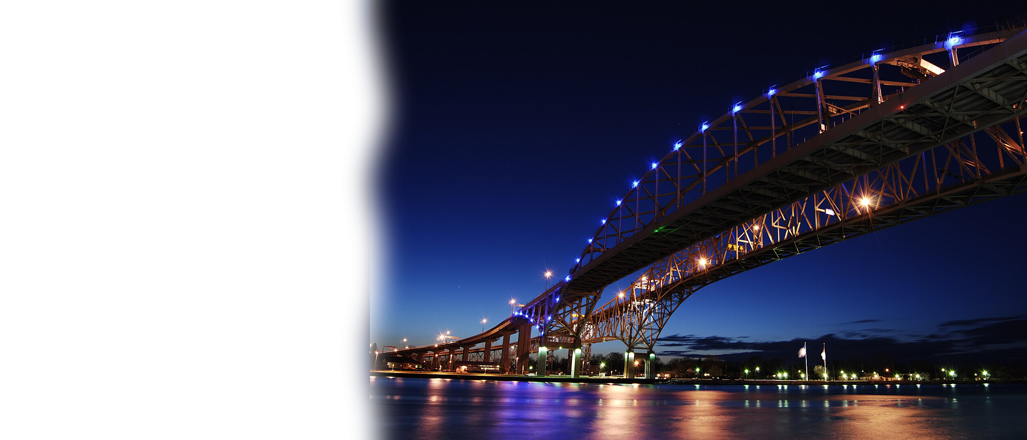
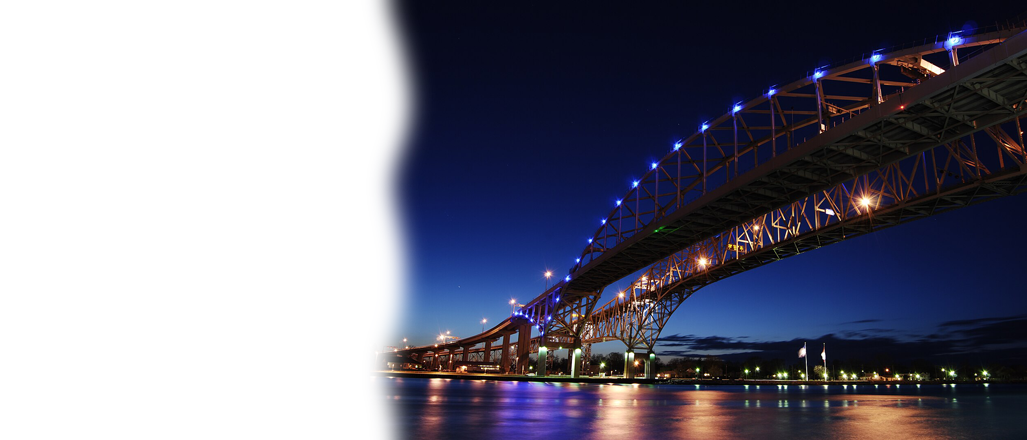
Compiling new cover image

Changed region(s): [[0.3427, 0.0, 0.4362, 1.0]]

diff --git a/dist/index.html b/dist/index.html
@@ -10,4 +10,4 @@
       .bd-placeholder-img-lg {
         font-size: 3.5rem;
       }
-    }</style><script defer="defer" src="main.js"></script></head><body><div class="container"><header class="blog-header py-1"><div class="row flex-nowrap justify-content-between align-items-center"><div class="col-4 pt-1"><a class="link-secondary" href="./"><img src="https://beljjvalentin.github.io/lambton_mun/img/MUN_logo_v5.png" width="100" class="img-responsive"></a></div><div class="col-4 text-center"><a class="blog-header-logo text-dark" href="./">Lambton MUN</a></div><div class="col-4 d-flex justify-content-end align-items-center"><a class="link-secondary" href="#" aria-label="Search"><svg xmlns="http://www.w3.org/2000/svg" width="20" height="20" fill="none" stroke="currentColor" stroke-linecap="round" stroke-linejoin="round" stroke-width="2" class="mx-3" role="img" viewBox="0 0 24 24"><title>Search</title><circle cx="10.5" cy="10.5" r="7.5"/><path d="M21 21l-5.2-5.2"/></svg> </a><a class="btn btn-sm btn-outline-secondary" href="#">Sign up</a></div></div></header><div class="nav-scroller py-1 mb-2"><nav class="nav d-flex justify-content-between"><a class="p-2 link-secondary" href="./goals.html">Our goals and values</a> <a class="p-2 link-secondary" href="./members.html">Our members</a> <a class="p-2 link-secondary" href="./events.html">Upcoming events</a> <a class="p-2 link-secondary" href="./policy.html">Policy and conditions</a> <a class="p-2 link-secondary" href="./contact.html">Contact us</a></nav></div></div><main class="container"><div class="p-4 p-md-5 mb-4 text-white rounded bg-dark d-flex flex-row flex-wrap justify-content-evenly"><div class="col-md-7 px-0 pb-3"><h1 class="display-4 fst-italic">Welcome to Lambton Model of United Nations club</h1><p class="lead my-3">Whether you're passionate about world affairs or looking to improve your leadership abilities, Lambton MUN is the perfect place to start your journey in global diplomacy.</p><p class="lead mb-0"><a href="./policy.html" class="text-white fw-bold">Continue reading...</a></p></div><div class="col-md-5 px-0 text-center"><img src="https://beljjvalentin.github.io/lambton_mun/img/Business_img_v1.png" alt="Our MUN team" width="80%"></div></div><div class="row mb-2"><div class="col-md-6"><div class="row g-0 border rounded overflow-hidden flex-md-row mb-4 shadow-sm h-md-250 position-relative"><div class="col p-4 d-flex flex-column position-static"><strong class="d-inline-block mb-2 text-primary">About Us</strong><h3 class="mb-0">Our goals and values</h3><p class="card-text mb-auto">This is a wider card with supporting text below as a natural lead-in to additional content.</p><a href="./policy.html" class="stretched-link">Continue reading</a></div><div class="col-auto d-none d-lg-block"><img class="bd-placeholder-img" height="250" src="https://beljjvalentin.github.io/lambton_mun/img/Goals_img_v1.png" alt="Our goals and values"></div></div></div><div class="col-md-6"><div class="row g-0 border rounded overflow-hidden flex-md-row mb-4 shadow-sm h-md-250 position-relative"><div class="col p-4 d-flex flex-column position-static"><strong class="d-inline-block mb-2 text-success">About us</strong><h3 class="mb-0">Meet our team</h3><p class="mb-auto">This is a wider card with supporting text below as a natural lead-in to additional content.</p><a href="./members.html" class="stretched-link">Continue reading</a></div><div class="col-auto d-none d-lg-block"><img class="bd-placeholder-img" height="250" src="https://beljjvalentin.github.io/lambton_mun/img/Team_img_v1.png" alt="Our team members"></div></div></div></div><div class="row g-5"><div class="col-md-8"><h3 class="pb-4 mb-4 fst-italic border-bottom">Latest events</h3><article class="blog-post"><h2 class="blog-post-title">Our first MUN meeting</h2><p class="blog-post-meta">June 25, 2024 by <a href="#">Valentin</a></p><p>We are thrilled to announce the first official meeting of the <b>Lambton Model United Nations</b> (MUN) Club! This is a fantastic opportunity for all students interested in international relations, diplomacy, and global issues to come together and engage in stimulating discussions and activities.</p></article><article class="blog-post"><h2 class="blog-post-title">Launching MUN official website</h2><p class="blog-post-meta">July 19, 2024 by <a href="#">Valentin</a></p><p>This blog post is the official website for the <b>Lambton Model United Nations</b> (MUN) Club! Our new website is designed to be a comprehensive resource for current and prospective members, offering a wealth of information about our activities, events, and how you can get involved.</p></article><nav class="blog-pagination" aria-label="Pagination"><a class="btn btn-outline-primary" href="#">Older</a> <a class="btn btn-outline-secondary disabled" href="#" tabindex="-1" aria-disabled="true">Newer</a></nav></div><div class="col-md-4"><div class="position-sticky" style="top: 2rem;"><div class="p-4 mb-3 bg-secondary-subtle rounded"><h4 class="fst-italic">What is MUN?</h4><p class="mb-0">Model United Nations, also known as Model UN or MUN, is an educational model of the United Nations used for simulations in which students learn about diplomacy and international relations.</p></div><div class="p-4"><h4 class="fst-italic">Archives</h4><ol class="list-unstyled mb-0"><li><a href="#">June 2024</a></li><li><a href="#">July 2024</a></li></ol></div><div class="p-4"><h4 class="fst-italic">Elsewhere</h4><ol class="list-unstyled"><li><a href="#">GitHub</a></li><li><a href="#">Twitter</a></li><li><a href="#">Facebook</a></li></ol></div></div></div></div></main><footer class="blog-footer"><p>Webpage built for <a href="https://beljjvalentin.github.io/lambton_mun/">Lambton MUN</a> by <a href="https://github.com/beljjvalentin">@beljjvalentin</a>.</p><p><a href="#">Back to top</a></p></footer></body></html>
+    }</style><script defer="defer" src="main.js"></script></head><body><div class="container"><header class="blog-header py-1"><div class="row flex-nowrap justify-content-between align-items-center"><div class="col-4 pt-1"><a class="link-secondary" href="./"><img src="https://beljjvalentin.github.io/lambton_mun/img/MUN_logo_v5.png" width="100" class="img-responsive"></a></div><div class="col-4 text-center"><a class="blog-header-logo text-dark" href="./">Lambton MUN</a></div><div class="col-4 d-flex justify-content-end align-items-center"><a class="link-secondary" href="#" aria-label="Search"><svg xmlns="http://www.w3.org/2000/svg" width="20" height="20" fill="none" stroke="currentColor" stroke-linecap="round" stroke-linejoin="round" stroke-width="2" class="mx-3" role="img" viewBox="0 0 24 24"><title>Search</title><circle cx="10.5" cy="10.5" r="7.5"/><path d="M21 21l-5.2-5.2"/></svg> </a><a class="btn btn-sm btn-outline-secondary" href="#">Sign up</a></div></div></header><div class="nav-scroller py-1 mb-2"><nav class="nav d-flex justify-content-between"><a class="p-2 link-secondary" href="./goals.html">Our goals and values</a> <a class="p-2 link-secondary" href="./members.html">Our members</a> <a class="p-2 link-secondary" href="./events.html">Upcoming events</a> <a class="p-2 link-secondary" href="./policy.html">Policy and conditions</a> <a class="p-2 link-secondary" href="./contact.html">Contact us</a></nav></div></div><main class="container"><div class="p-4 p-md-5 mb-4 text-white rounded bg-dark d-flex flex-row flex-wrap justify-content-evenly" style="background-repeat: no-repeat; background-position: right; background-image: url('https://beljjvalentin.github.io/lambton_mun/img/1613px-Bluewater_Bridge.png')"><div class="col-md-7 px-0 pb-3"><h1 class="display-4 fst-italic">Welcome to Lambton Model of United Nations club</h1><p class="lead my-3">Whether you're passionate about world affairs or looking to improve your leadership abilities, Lambton MUN is the perfect place to start your journey in global diplomacy.</p><p class="lead mb-0"><a href="./policy.html" class="text-white fw-bold">Continue reading...</a></p></div><div class="col-md-5 px-0 text-center"></div></div><div class="row mb-2"><div class="col-md-6"><div class="row g-0 border rounded overflow-hidden flex-md-row mb-4 shadow-sm h-md-250 position-relative"><div class="col p-4 d-flex flex-column position-static"><strong class="d-inline-block mb-2 text-primary">About Us</strong><h3 class="mb-0">Our goals and values</h3><p class="card-text mb-auto">This is a wider card with supporting text below as a natural lead-in to additional content.</p><a href="./policy.html" class="stretched-link">Continue reading</a></div><div class="col-auto d-none d-lg-block"><img class="bd-placeholder-img" height="250" src="https://beljjvalentin.github.io/lambton_mun/img/Goals_img_v1.png" alt="Our goals and values"></div></div></div><div class="col-md-6"><div class="row g-0 border rounded overflow-hidden flex-md-row mb-4 shadow-sm h-md-250 position-relative"><div class="col p-4 d-flex flex-column position-static"><strong class="d-inline-block mb-2 text-success">About us</strong><h3 class="mb-0">Meet our team</h3><p class="mb-auto">This is a wider card with supporting text below as a natural lead-in to additional content.</p><a href="./members.html" class="stretched-link">Continue reading</a></div><div class="col-auto d-none d-lg-block"><img class="bd-placeholder-img" height="250" src="https://beljjvalentin.github.io/lambton_mun/img/Team_img_v1.png" alt="Our team members"></div></div></div></div><div class="row g-5"><div class="col-md-8"><h3 class="pb-4 mb-4 fst-italic border-bottom">Latest events</h3><article class="blog-post"><h2 class="blog-post-title">Our first MUN meeting</h2><p class="blog-post-meta">June 25, 2024 by <a href="#">Valentin</a></p><p>We are thrilled to announce the first official meeting of the <b>Lambton Model United Nations</b> (MUN) Club! This is a fantastic opportunity for all students interested in international relations, diplomacy, and global issues to come together and engage in stimulating discussions and activities.</p></article><article class="blog-post"><h2 class="blog-post-title">Launching MUN official website</h2><p class="blog-post-meta">July 19, 2024 by <a href="#">Valentin</a></p><p>This blog post is the official website for the <b>Lambton Model United Nations</b> (MUN) Club! Our new website is designed to be a comprehensive resource for current and prospective members, offering a wealth of information about our activities, events, and how you can get involved.</p></article><nav class="blog-pagination" aria-label="Pagination"><a class="btn btn-outline-primary" href="#">Older</a> <a class="btn btn-outline-secondary disabled" href="#" tabindex="-1" aria-disabled="true">Newer</a></nav></div><div class="col-md-4"><div class="position-sticky" style="top: 2rem;"><div class="p-4 mb-3 bg-secondary-subtle rounded"><h4 class="fst-italic">What is MUN?</h4><p class="mb-0">Model United Nations, also known as Model UN or MUN, is an educational model of the United Nations used for simulations in which students learn about diplomacy and international relations.</p></div><div class="p-4"><h4 class="fst-italic">Archives</h4><ol class="list-unstyled mb-0"><li><a href="#">June 2024</a></li><li><a href="#">July 2024</a></li></ol></div><div class="p-4"><h4 class="fst-italic">Elsewhere</h4><ol class="list-unstyled"><li><a href="#">GitHub</a></li><li><a href="#">Twitter</a></li><li><a href="#">Facebook</a></li></ol></div></div></div></div></main><footer class="blog-footer"><p>Webpage built for <a href="https://beljjvalentin.github.io/lambton_mun/">Lambton MUN</a> by <a href="https://github.com/beljjvalentin">@beljjvalentin</a>.</p><p><a href="#">Back to top</a></p></footer></body></html>

diff --git a/index.html b/index.html
@@ -10,4 +10,4 @@
       .bd-placeholder-img-lg {
         font-size: 3.5rem;
       }
-    }</style><script defer="defer" src="main.js"></script></head><body><div class="container"><header class="blog-header py-1"><div class="row flex-nowrap justify-content-between align-items-center"><div class="col-4 pt-1"><a class="link-secondary" href="./"><img src="https://beljjvalentin.github.io/lambton_mun/img/MUN_logo_v5.png" width="100" class="img-responsive"></a></div><div class="col-4 text-center"><a class="blog-header-logo text-dark" href="./">Lambton MUN</a></div><div class="col-4 d-flex justify-content-end align-items-center"><a class="link-secondary" href="#" aria-label="Search"><svg xmlns="http://www.w3.org/2000/svg" width="20" height="20" fill="none" stroke="currentColor" stroke-linecap="round" stroke-linejoin="round" stroke-width="2" class="mx-3" role="img" viewBox="0 0 24 24"><title>Search</title><circle cx="10.5" cy="10.5" r="7.5"/><path d="M21 21l-5.2-5.2"/></svg> </a><a class="btn btn-sm btn-outline-secondary" href="#">Sign up</a></div></div></header><div class="nav-scroller py-1 mb-2"><nav class="nav d-flex justify-content-between"><a class="p-2 link-secondary" href="./goals.html">Our goals and values</a> <a class="p-2 link-secondary" href="./members.html">Our members</a> <a class="p-2 link-secondary" href="./events.html">Upcoming events</a> <a class="p-2 link-secondary" href="./policy.html">Policy and conditions</a> <a class="p-2 link-secondary" href="./contact.html">Contact us</a></nav></div></div><main class="container"><div class="p-4 p-md-5 mb-4 text-white rounded bg-dark d-flex flex-row flex-wrap justify-content-evenly"><div class="col-md-7 px-0 pb-3"><h1 class="display-4 fst-italic">Welcome to Lambton Model of United Nations club</h1><p class="lead my-3">Whether you're passionate about world affairs or looking to improve your leadership abilities, Lambton MUN is the perfect place to start your journey in global diplomacy.</p><p class="lead mb-0"><a href="./policy.html" class="text-white fw-bold">Continue reading...</a></p></div><div class="col-md-5 px-0 text-center"><img src="https://beljjvalentin.github.io/lambton_mun/img/Business_img_v1.png" alt="Our MUN team" width="80%"></div></div><div class="row mb-2"><div class="col-md-6"><div class="row g-0 border rounded overflow-hidden flex-md-row mb-4 shadow-sm h-md-250 position-relative"><div class="col p-4 d-flex flex-column position-static"><strong class="d-inline-block mb-2 text-primary">About Us</strong><h3 class="mb-0">Our goals and values</h3><p class="card-text mb-auto">This is a wider card with supporting text below as a natural lead-in to additional content.</p><a href="./policy.html" class="stretched-link">Continue reading</a></div><div class="col-auto d-none d-lg-block"><img class="bd-placeholder-img" height="250" src="https://beljjvalentin.github.io/lambton_mun/img/Goals_img_v1.png" alt="Our goals and values"></div></div></div><div class="col-md-6"><div class="row g-0 border rounded overflow-hidden flex-md-row mb-4 shadow-sm h-md-250 position-relative"><div class="col p-4 d-flex flex-column position-static"><strong class="d-inline-block mb-2 text-success">About us</strong><h3 class="mb-0">Meet our team</h3><p class="mb-auto">This is a wider card with supporting text below as a natural lead-in to additional content.</p><a href="./members.html" class="stretched-link">Continue reading</a></div><div class="col-auto d-none d-lg-block"><img class="bd-placeholder-img" height="250" src="https://beljjvalentin.github.io/lambton_mun/img/Team_img_v1.png" alt="Our team members"></div></div></div></div><div class="row g-5"><div class="col-md-8"><h3 class="pb-4 mb-4 fst-italic border-bottom">Latest events</h3><article class="blog-post"><h2 class="blog-post-title">Our first MUN meeting</h2><p class="blog-post-meta">June 25, 2024 by <a href="#">Valentin</a></p><p>We are thrilled to announce the first official meeting of the <b>Lambton Model United Nations</b> (MUN) Club! This is a fantastic opportunity for all students interested in international relations, diplomacy, and global issues to come together and engage in stimulating discussions and activities.</p></article><article class="blog-post"><h2 class="blog-post-title">Launching MUN official website</h2><p class="blog-post-meta">July 19, 2024 by <a href="#">Valentin</a></p><p>This blog post is the official website for the <b>Lambton Model United Nations</b> (MUN) Club! Our new website is designed to be a comprehensive resource for current and prospective members, offering a wealth of information about our activities, events, and how you can get involved.</p></article><nav class="blog-pagination" aria-label="Pagination"><a class="btn btn-outline-primary" href="#">Older</a> <a class="btn btn-outline-secondary disabled" href="#" tabindex="-1" aria-disabled="true">Newer</a></nav></div><div class="col-md-4"><div class="position-sticky" style="top: 2rem;"><div class="p-4 mb-3 bg-secondary-subtle rounded"><h4 class="fst-italic">What is MUN?</h4><p class="mb-0">Model United Nations, also known as Model UN or MUN, is an educational model of the United Nations used for simulations in which students learn about diplomacy and international relations.</p></div><div class="p-4"><h4 class="fst-italic">Archives</h4><ol class="list-unstyled mb-0"><li><a href="#">June 2024</a></li><li><a href="#">July 2024</a></li></ol></div><div class="p-4"><h4 class="fst-italic">Elsewhere</h4><ol class="list-unstyled"><li><a href="#">GitHub</a></li><li><a href="#">Twitter</a></li><li><a href="#">Facebook</a></li></ol></div></div></div></div></main><footer class="blog-footer"><p>Webpage built for <a href="https://beljjvalentin.github.io/lambton_mun/">Lambton MUN</a> by <a href="https://github.com/beljjvalentin">@beljjvalentin</a>.</p><p><a href="#">Back to top</a></p></footer></body></html>
+    }</style><script defer="defer" src="main.js"></script></head><body><div class="container"><header class="blog-header py-1"><div class="row flex-nowrap justify-content-between align-items-center"><div class="col-4 pt-1"><a class="link-secondary" href="./"><img src="https://beljjvalentin.github.io/lambton_mun/img/MUN_logo_v5.png" width="100" class="img-responsive"></a></div><div class="col-4 text-center"><a class="blog-header-logo text-dark" href="./">Lambton MUN</a></div><div class="col-4 d-flex justify-content-end align-items-center"><a class="link-secondary" href="#" aria-label="Search"><svg xmlns="http://www.w3.org/2000/svg" width="20" height="20" fill="none" stroke="currentColor" stroke-linecap="round" stroke-linejoin="round" stroke-width="2" class="mx-3" role="img" viewBox="0 0 24 24"><title>Search</title><circle cx="10.5" cy="10.5" r="7.5"/><path d="M21 21l-5.2-5.2"/></svg> </a><a class="btn btn-sm btn-outline-secondary" href="#">Sign up</a></div></div></header><div class="nav-scroller py-1 mb-2"><nav class="nav d-flex justify-content-between"><a class="p-2 link-secondary" href="./goals.html">Our goals and values</a> <a class="p-2 link-secondary" href="./members.html">Our members</a> <a class="p-2 link-secondary" href="./events.html">Upcoming events</a> <a class="p-2 link-secondary" href="./policy.html">Policy and conditions</a> <a class="p-2 link-secondary" href="./contact.html">Contact us</a></nav></div></div><main class="container"><div class="p-4 p-md-5 mb-4 text-white rounded bg-dark d-flex flex-row flex-wrap justify-content-evenly" style="background-repeat: no-repeat; background-position: right; background-image: url('https://beljjvalentin.github.io/lambton_mun/img/1613px-Bluewater_Bridge.png')"><div class="col-md-7 px-0 pb-3"><h1 class="display-4 fst-italic">Welcome to Lambton Model of United Nations club</h1><p class="lead my-3">Whether you're passionate about world affairs or looking to improve your leadership abilities, Lambton MUN is the perfect place to start your journey in global diplomacy.</p><p class="lead mb-0"><a href="./policy.html" class="text-white fw-bold">Continue reading...</a></p></div><div class="col-md-5 px-0 text-center"></div></div><div class="row mb-2"><div class="col-md-6"><div class="row g-0 border rounded overflow-hidden flex-md-row mb-4 shadow-sm h-md-250 position-relative"><div class="col p-4 d-flex flex-column position-static"><strong class="d-inline-block mb-2 text-primary">About Us</strong><h3 class="mb-0">Our goals and values</h3><p class="card-text mb-auto">This is a wider card with supporting text below as a natural lead-in to additional content.</p><a href="./policy.html" class="stretched-link">Continue reading</a></div><div class="col-auto d-none d-lg-block"><img class="bd-placeholder-img" height="250" src="https://beljjvalentin.github.io/lambton_mun/img/Goals_img_v1.png" alt="Our goals and values"></div></div></div><div class="col-md-6"><div class="row g-0 border rounded overflow-hidden flex-md-row mb-4 shadow-sm h-md-250 position-relative"><div class="col p-4 d-flex flex-column position-static"><strong class="d-inline-block mb-2 text-success">About us</strong><h3 class="mb-0">Meet our team</h3><p class="mb-auto">This is a wider card with supporting text below as a natural lead-in to additional content.</p><a href="./members.html" class="stretched-link">Continue reading</a></div><div class="col-auto d-none d-lg-block"><img class="bd-placeholder-img" height="250" src="https://beljjvalentin.github.io/lambton_mun/img/Team_img_v1.png" alt="Our team members"></div></div></div></div><div class="row g-5"><div class="col-md-8"><h3 class="pb-4 mb-4 fst-italic border-bottom">Latest events</h3><article class="blog-post"><h2 class="blog-post-title">Our first MUN meeting</h2><p class="blog-post-meta">June 25, 2024 by <a href="#">Valentin</a></p><p>We are thrilled to announce the first official meeting of the <b>Lambton Model United Nations</b> (MUN) Club! This is a fantastic opportunity for all students interested in international relations, diplomacy, and global issues to come together and engage in stimulating discussions and activities.</p></article><article class="blog-post"><h2 class="blog-post-title">Launching MUN official website</h2><p class="blog-post-meta">July 19, 2024 by <a href="#">Valentin</a></p><p>This blog post is the official website for the <b>Lambton Model United Nations</b> (MUN) Club! Our new website is designed to be a comprehensive resource for current and prospective members, offering a wealth of information about our activities, events, and how you can get involved.</p></article><nav class="blog-pagination" aria-label="Pagination"><a class="btn btn-outline-primary" href="#">Older</a> <a class="btn btn-outline-secondary disabled" href="#" tabindex="-1" aria-disabled="true">Newer</a></nav></div><div class="col-md-4"><div class="position-sticky" style="top: 2rem;"><div class="p-4 mb-3 bg-secondary-subtle rounded"><h4 class="fst-italic">What is MUN?</h4><p class="mb-0">Model United Nations, also known as Model UN or MUN, is an educational model of the United Nations used for simulations in which students learn about diplomacy and international relations.</p></div><div class="p-4"><h4 class="fst-italic">Archives</h4><ol class="list-unstyled mb-0"><li><a href="#">June 2024</a></li><li><a href="#">July 2024</a></li></ol></div><div class="p-4"><h4 class="fst-italic">Elsewhere</h4><ol class="list-unstyled"><li><a href="#">GitHub</a></li><li><a href="#">Twitter</a></li><li><a href="#">Facebook</a></li></ol></div></div></div></div></main><footer class="blog-footer"><p>Webpage built for <a href="https://beljjvalentin.github.io/lambton_mun/">Lambton MUN</a> by <a href="https://github.com/beljjvalentin">@beljjvalentin</a>.</p><p><a href="#">Back to top</a></p></footer></body></html>

diff --git a/src/index.html b/src/index.html
@@ -77,14 +77,17 @@
 </div>
 
 <main class="container">
-  <div class="p-4 p-md-5 mb-4 text-white rounded bg-dark d-flex flex-row flex-wrap justify-content-evenly">
+  <div class="p-4 p-md-5 mb-4 text-white rounded bg-dark d-flex flex-row flex-wrap justify-content-evenly"
+      style="background-repeat: no-repeat; background-position: right; background-image: url('https://beljjvalentin.github.io/lambton_mun/img/1613px-Bluewater_Bridge.png')"
+    >
+
     <div class="col-md-7 px-0 pb-3">
       <h1 class="display-4 fst-italic">Welcome to Lambton Model of United Nations club</h1>
       <p class="lead my-3">Whether you're passionate about world affairs or looking to improve your leadership abilities, Lambton MUN is the perfect place to start your journey in global diplomacy.</p>
       <p class="lead mb-0"><a href="./policy.html" class="text-white fw-bold">Continue reading...</a></p>
     </div>
     <div class="col-md-5 px-0 text-center">
-      <img src="https://beljjvalentin.github.io/lambton_mun/img/Business_img_v1.png" alt="Our MUN team" width="80%">
+<!--      <img src="https://beljjvalentin.github.io/lambton_mun/img/Business_img_v1.png" alt="Our MUN team" width="80%">-->
     </div>
   </div>
 
